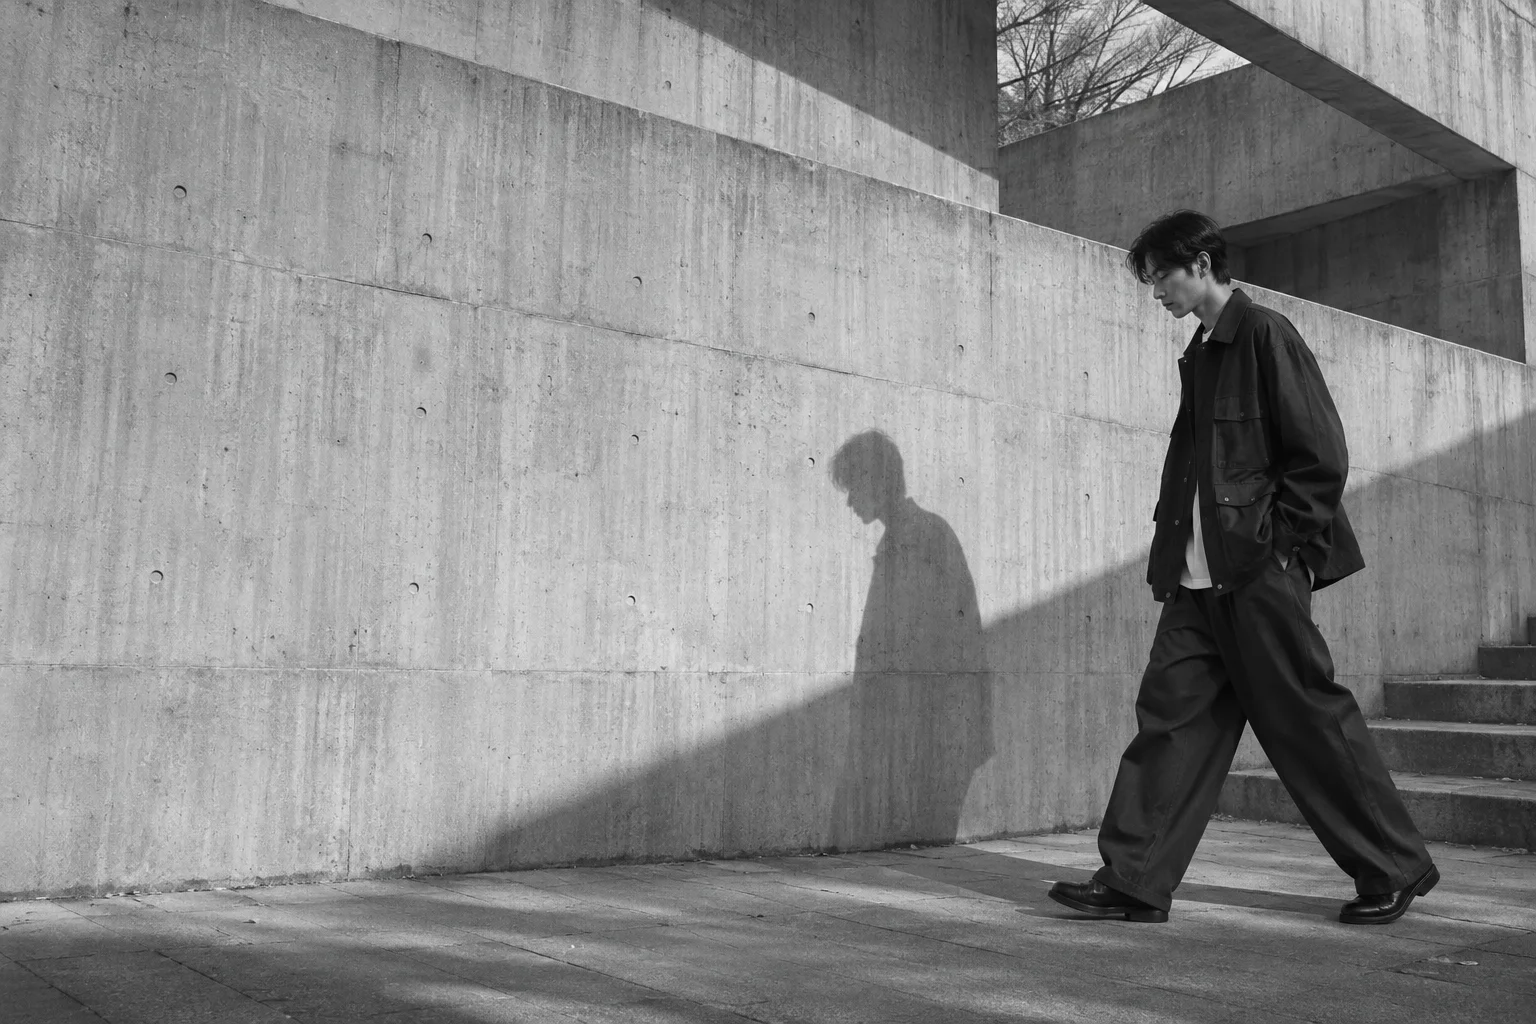
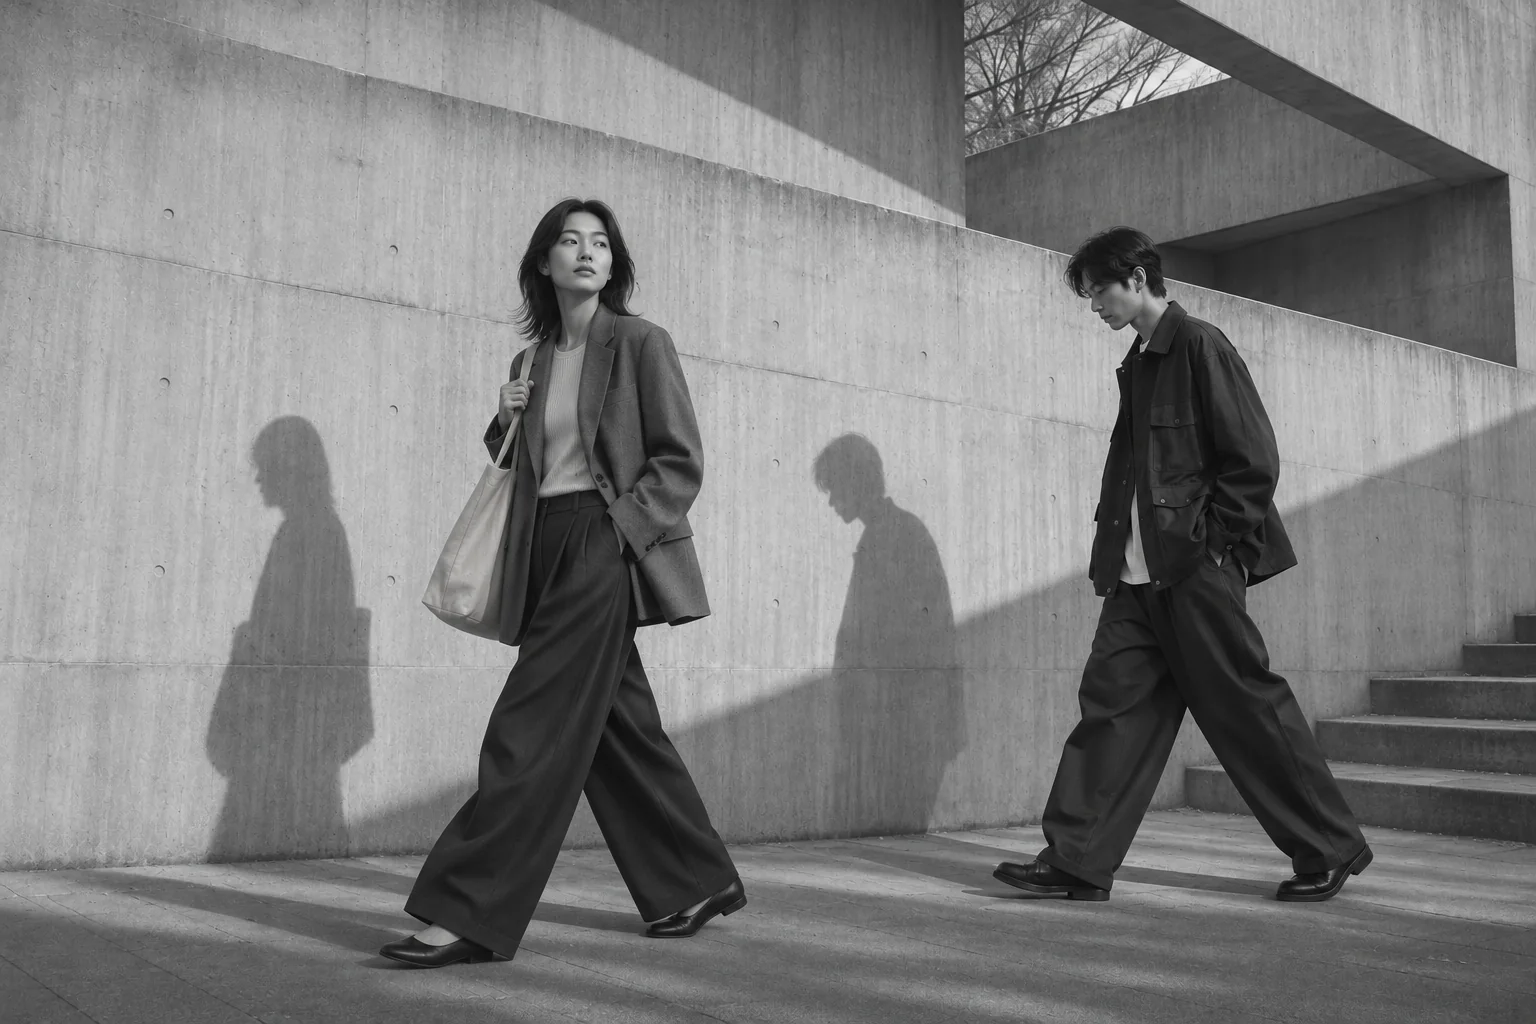
カート追加の数量選択とトップのメインビジュアルを改善

diff --git a/web/src/styles.css b/web/src/styles.css
@@ -27,7 +27,7 @@ input::placeholder { color: #666; }
 .sr-only { position: absolute; width: 1px; height: 1px; padding: 0; margin: -1px; overflow: hidden; clip-path: inset(50%); white-space: nowrap; }
 .header { border-bottom: 1px solid var(--line); background: white; }
 .header--sticky { position: sticky; top: 0; z-index: 10; }
-.header-inner, main, footer > div { width: min(100%, 1640px); margin-inline: auto; padding-inline: var(--gutter); }
+.header-inner, main, footer > div, .hero-copy, .catalog { width: min(100%, 1640px); margin-inline: auto; padding-inline: var(--gutter); }
 .header-inner { min-height: 77px; display: flex; align-items: center; gap: clamp(24px, 5vw, 80px); }
 .wordmark {
   color: var(--ink); font-family: "Helvetica Neue", Arial, sans-serif; font-weight: 900;
@@ -53,23 +53,33 @@ input::placeholder { color: #666; }
   font-size: 10px; font-weight: 600; font-variant-numeric: tabular-nums; line-height: 1;
 }
 main { min-height: 74vh; }
+.store-home { width: 100%; padding-inline: 0; }
 .shop-hero {
-  display: grid; grid-template-columns: minmax(0, .78fr) minmax(0, 1.22fr); align-items: stretch;
-  margin: clamp(18px, 2.5vw, 38px) 0 clamp(40px, 5vw, 78px);
+  position: relative; isolation: isolate;
+  display: grid; align-items: center; min-height: clamp(460px, 48vw, 840px);
+  margin-bottom: clamp(38px, 5vw, 78px); background: #373735; color: white;
 }
-.hero-copy { align-self: center; padding: 18px clamp(24px, 4vw, 72px) 18px 0; }
-.campaign-label { margin: 0 0 clamp(16px, 2.2vw, 32px); font-size: 12px; font-weight: 600; letter-spacing: .075em; }
+.shop-hero::before {
+  content: ''; position: absolute; inset: 0; z-index: -1;
+  background: linear-gradient(90deg, rgb(15 15 15 / .84), rgb(15 15 15 / .62) 22%, rgb(15 15 15 / .13) 46%, transparent 70%);
+}
+.hero-copy { padding-block: 58px; }
+.campaign-label { margin: 0 0 clamp(16px, 2.1vw, 30px); font-size: 12px; font-weight: 650; letter-spacing: .11em; }
 .hero-copy h1 {
-  margin: 0; font: 500 clamp(64px, 7.5vw, 124px)/.87 "Helvetica Neue", Arial, sans-serif;
-  letter-spacing: -.085em;
+  margin: 0; font: 500 clamp(68px, 7.25vw, 124px)/.89 "Helvetica Neue", Arial, sans-serif;
+  letter-spacing: -.08em;
 }
-.campaign-description { margin: clamp(18px, 2.1vw, 32px) 0 0; font-size: clamp(12px, .95vw, 15px); line-height: 1.8; }
+.campaign-description { margin: clamp(16px, 2vw, 26px) 0 0; font-size: 14px; line-height: 1.8; }
 .collection-jump {
-  gap: 28px; min-height: 38px; margin-top: clamp(12px, 1.9vw, 30px); padding: 5px 0;
-  border: 0; border-bottom: 1px solid currentColor; color: var(--ink); background: transparent; font-size: 13px;
+  justify-content: space-between; gap: 20px; min-height: 44px; margin-top: clamp(16px, 2vw, 27px); padding: 8px 14px;
+  border-color: white; border-radius: 5px; color: var(--ink); background: white; font-size: 13px;
 }
-.collection-jump:hover:not(:disabled) { background: transparent; color: var(--subtle); }
-.campaign-photo { display: block; width: 100%; height: 100%; min-height: 0; aspect-ratio: 1.65; object-fit: cover; object-position: 70% center; }
+.collection-jump:hover:not(:disabled) { background: #eaeae7; border-color: #eaeae7; }
+.collection-jump:focus-visible { outline-color: white; }
+.campaign-photo {
+  position: absolute; inset: 0; z-index: -2;
+  display: block; width: 100%; height: 100%; object-fit: cover; object-position: center 48%;
+}
 .catalog { margin-bottom: clamp(50px, 8vw, 110px); }
 .catalog-toolbar {
   display: flex; justify-content: space-between; align-items: center; flex-wrap: wrap;
@@ -106,6 +116,19 @@ main { min-height: 74vh; }
   width: 100%; min-height: 52px; padding: 11px 17px; border-radius: 7px;
   text-align: center; letter-spacing: .025em;
 }
+.detail-quantity-label { display: flex; justify-content: space-between; gap: 8px; margin-bottom: 7px; font-size: 13px; font-weight: 600; }
+.detail-quantity-label > span + span { color: var(--subtle); font-weight: 400; }
+.detail-purchase-row { display: flex; flex-wrap: wrap; gap: 8px; }
+.detail-purchase-row .detail-add { display: flex; flex: 1 0 146px; padding-inline: 12px; }
+.detail-quantity {
+  display: grid; grid-template-columns: 44px 32px 44px; align-items: stretch;
+  min-height: 52px; border: 1px solid var(--line); border-radius: 7px; background: white;
+}
+.detail-quantity button { padding: 0; border: 0; border-radius: 6px; color: var(--ink); background: transparent; }
+.detail-quantity button:hover:not(:disabled) { background: #f2f2ef; }
+.detail-quantity button:disabled { opacity: .33; }
+.detail-quantity output { display: grid; place-items: center; font-size: 14px; font-variant-numeric: tabular-nums; }
+.detail-quantity-note { margin: 8px 0 0; color: var(--subtle); font-size: 13px; }
 .detail-cart-feedback.is-added {
   display: flex; align-items: center; justify-content: space-between; flex-wrap: wrap; gap: 8px 12px;
   margin-top: 10px; padding: 8px 9px 8px 12px; border: 1px solid #e3e7df; border-radius: 7px;
@@ -155,22 +178,21 @@ footer span { font-size: 12px; color: var(--subtle); }
   .account-nav a > span:not(.header-cart-icon), .account-nav button > span { display: none; }
   .header .account-nav { gap: 2px; }
   .account-nav a, .account-nav button { justify-content: center; min-width: 36px; }
-  .shop-hero { grid-template-columns: minmax(0, .85fr) minmax(0, 1.15fr); }
-  .hero-copy h1 { font-size: clamp(58px, 8vw, 78px); }
   .catalog-toolbar { align-items: flex-start; }
   .detail { gap: 22px; }
+}
+@media (max-width: 700px) {
+  .shop-hero { align-items: end; min-height: clamp(420px, 116vw, 540px); }
+  .shop-hero::before { background: linear-gradient(0deg, rgb(15 15 15 / .9), rgb(15 15 15 / .69) 26%, rgb(15 15 15 / .13) 58%, transparent 78%); }
+  .campaign-photo { object-position: 57% 45%; }
+  .hero-copy { padding-block: 36px 28px; }
+  .hero-copy h1 { font-size: clamp(52px, 11vw, 74px); }
+  .campaign-label { margin-bottom: 12px; font-size: 11px; }
+  .campaign-description { margin-top: 12px; font-size: 13px; }
 }
 @media (max-width: 600px) {
   .header-inner { gap: 12px; flex-wrap: wrap; padding-block: 8px; }
   .header .store-nav { gap: 10px; }
-  .shop-hero { display: flex; flex-direction: column; margin-top: 14px; margin-bottom: 36px; }
-  .campaign-photo { order: -1; height: auto; aspect-ratio: 1.65; }
-  .hero-copy { width: 100%; padding: 19px 0 0; }
-  .hero-copy h1 { font-size: clamp(43px, 10.5vw, 62px); line-height: 1; }
-  .hero-copy h1 br { display: none; }
-  .campaign-label { margin-bottom: 9px; font-size: 10px; }
-  .campaign-description { margin-top: 10px; }
-  .collection-jump { margin-top: 6px; min-height: 36px; }
   .catalog-toolbar { display: grid; gap: 13px; padding-bottom: 12px; margin-bottom: 15px; }
   .filters { display: grid; grid-template-columns: auto auto; justify-content: start; gap: 5px 16px; }
   .catalog-search { grid-column: 1 / -1; }

diff --git a/web/src/features/products/products.tsx b/web/src/features/products/products.tsx
@@ -1,7 +1,7 @@
 import { categories, type Product } from '@thread/shared';
 import { useEffect, useRef, useState, type RefObject } from 'react';
 import { Link, useParams } from 'react-router-dom';
-import { ArrowDownRight, ArrowLeft, ArrowRight, Check, Plus, Search, ShoppingBag } from 'lucide-react';
+import { ArrowDownRight, ArrowLeft, ArrowRight, Check, Minus, Plus, Search, ShoppingBag } from 'lucide-react';
 import campaignImage from '../../assets/campaign.webp';
 import { ProductVisual } from './product-visual';
 import { api, yen } from '../../api';
@@ -66,7 +66,7 @@ export function Products() {
         }}>商品を見る <ArrowDownRight size={17} aria-hidden="true" /></button>
       </div>
       <img className="campaign-photo" src={campaignImage} width={1536} height={1024} fetchPriority="high"
-        alt="コンクリートの壁を背景に、ジャケットとワイドパンツを着て歩くモデル" />
+        alt="コンクリートの建物を背景に、ジャケットとワイドパンツを着こなす女性と男性のモデル" />
     </section>
     <section className="catalog" aria-labelledby="collection">
       <div className="catalog-toolbar">
@@ -130,11 +130,15 @@ function AddToCart({ product, token, cartIcon, productImage }: {
   cartIcon: RefObject<HTMLSpanElement | null>;
   productImage: RefObject<HTMLImageElement | null>;
 }) {
-  const { refresh } = useCart();
+  const { items, refresh } = useCart();
+  const [quantity, setQuantity] = useState(1);
   const [added, setAdded] = useState(false);
   const [error, setError] = useState('');
   const [busy, setBusy] = useState(false);
   const stopAnimation = useRef<(() => void) | undefined>(undefined);
+  const inCart = items?.find(item => item.productId === product.id)?.quantity ?? 0;
+  const available = Math.max(0, Math.min(product.stock, 99) - inCart);
+  const selected = Math.min(quantity, available);
 
   useEffect(() => () => stopAnimation.current?.(), []);
 
@@ -144,7 +148,7 @@ function AddToCart({ product, token, cartIcon, productImage }: {
     setError('');
     setBusy(true);
     try {
-      await api('/cart/' + product.id, { method: 'PUT', body: '{"quantity":1}' }, token);
+      await api('/cart/' + encodeURIComponent(product.id), { method: 'POST', body: JSON.stringify({ quantity: selected }) }, token);
       refresh();
       setAdded(true);
     } catch (cause) {
@@ -159,11 +163,23 @@ function AddToCart({ product, token, cartIcon, productImage }: {
   }
 
   return <div className="detail-actions">
-    <button type="button" className="detail-add" disabled={!product.stock || busy} onClick={event => void addToCart(event.currentTarget)}>
-      <ShoppingBag size={18} aria-hidden="true" />
-      {busy ? '追加中…' : 'カートに追加'}
-      <Plus size={17} aria-hidden="true" />
-    </button>
+    <div className="detail-quantity-label"><span>追加点数</span>{inCart > 0 && <span>カート内 {inCart} 点</span>}</div>
+    <div className="detail-purchase-row">
+      <div className="detail-quantity" role="group" aria-label="追加点数">
+        <button type="button" aria-label="追加点数を減らす" disabled={busy || selected <= 1} onClick={() => setQuantity(selected - 1)}>
+          <Minus size={15} aria-hidden="true" />
+        </button>
+        <output>{selected}</output>
+        <button type="button" aria-label="追加点数を増やす" disabled={busy || selected >= available} onClick={() => setQuantity(selected + 1)}>
+          <Plus size={15} aria-hidden="true" />
+        </button>
+      </div>
+      <button type="button" className="detail-add" disabled={busy || selected === 0} onClick={event => void addToCart(event.currentTarget)}>
+        <ShoppingBag size={18} aria-hidden="true" />
+        {busy ? '追加中…' : 'カートに追加'}
+      </button>
+    </div>
+    {product.stock > 0 && available === 0 && <p className="detail-quantity-note">追加できる上限に達しました。</p>}
     <div className={added ? 'detail-cart-feedback is-added' : 'detail-cart-feedback'}>
       <p role="status">{added && <><span className="detail-cart-check"><Check size={14} aria-hidden="true" /></span>カートに追加しました。</>}</p>
       {added && <Link className="detail-cart-link" to="/cart">カートを見る <ArrowRight size={16} aria-hidden="true" /></Link>}

diff --git a/api/src/cart/cart.ts b/api/src/cart/cart.ts
@@ -1,24 +1,32 @@
-import { Body, Controller, Delete, Get, Injectable, Module, NotFoundException, Param, Put, UseGuards } from '@nestjs/common';
+import { Body, ConflictException, Controller, Delete, Get, Injectable, Module, NotFoundException, Param, Post, Put, UseGuards } from '@nestjs/common';
 import { ApiBearerAuth, ApiProperty, ApiTags } from '@nestjs/swagger';
 import { IsInt, Max, Min } from 'class-validator';
 import { Db } from '../db';
+import { Prisma } from '../generated/prisma/client';
 import { AuthGuard, AuthModule, CurrentUser, RequireRole } from '../auth/auth';
 
+const MAX_CART_QUANTITY = 99;
+
 class QuantityDto {
-  @ApiProperty() @IsInt() @Min(1) @Max(99) quantity!: number;
+  @ApiProperty() @IsInt() @Min(1) @Max(MAX_CART_QUANTITY) quantity!: number;
 }
 
 @Injectable()
 class CartRepository {
   constructor(private readonly db: Db) {}
   list(userId: string) { return this.db.cartItem.findMany({ where: { userId }, include: { product: true }, orderBy: { productId: 'asc' } }); }
-  findProduct(id: string) { return this.db.product.findFirst({ where: { id, isPublished: true } }); }
-  put(userId: string, productId: string, quantity: number) {
-    return this.db.cartItem.upsert({
+  findProduct(id: string, source: Pick<Prisma.TransactionClient, 'product'> = this.db) {
+    return source.product.findFirst({ where: { id, isPublished: true } });
+  }
+  put(userId: string, productId: string, quantity: number, source: Pick<Prisma.TransactionClient, 'cartItem'> = this.db) {
+    return source.cartItem.upsert({
       where: { userId_productId: { userId, productId } }, update: { quantity }, create: { userId, productId, quantity },
     });
   }
   remove(userId: string, productId: string) { return this.db.cartItem.deleteMany({ where: { userId, productId } }); }
+  transact<T>(process: (db: Prisma.TransactionClient) => Promise<T>) {
+    return this.db.$transaction(process, { isolationLevel: Prisma.TransactionIsolationLevel.Serializable });
+  }
 }
 
 @Injectable()
@@ -28,6 +36,25 @@ class CartService {
   async put(userId: string, id: string, qty: number) {
     if (!await this.repo.findProduct(id)) throw new NotFoundException('商品が見つかりません。');
     return this.repo.put(userId, id, qty);
+  }
+  async add(userId: string, productId: string, quantity: number) {
+    for (let attempt = 0; attempt < 3; attempt += 1) {
+      try {
+        return await this.repo.transact(async db => {
+          const product = await this.repo.findProduct(productId, db);
+          if (!product) throw new NotFoundException('商品が見つかりません。');
+          const current = await db.cartItem.findUnique({ where: { userId_productId: { userId, productId } } });
+          const next = (current?.quantity ?? 0) + quantity;
+          if (next > Math.min(product.stock, MAX_CART_QUANTITY)) {
+            throw new ConflictException('在庫またはカートの上限を超える数量は追加できません。');
+          }
+          return this.repo.put(userId, productId, next, db);
+        });
+      } catch (cause) {
+        if (!(cause instanceof Prisma.PrismaClientKnownRequestError) || !['P2034', 'P2002'].includes(cause.code)) throw cause;
+      }
+    }
+    throw new ConflictException('カートが更新されました。もう一度追加してください。');
   }
   async remove(userId: string, id: string) { await this.repo.remove(userId, id); return { removed: true }; }
 }
@@ -40,6 +67,9 @@ class CartService {
 class CartController {
   constructor(private readonly cart: CartService) {}
   @Get() list(@CurrentUser() user: { id: string }) { return this.cart.list(user.id); }
+  @Post(':id') add(@CurrentUser() user: { id: string }, @Param('id') id: string, @Body() dto: QuantityDto) {
+    return this.cart.add(user.id, id, dto.quantity);
+  }
   @Put(':id') put(@CurrentUser() user: { id: string }, @Param('id') id: string, @Body() dto: QuantityDto) {
     return this.cart.put(user.id, id, dto.quantity);
   }

diff --git a/web/src/main.tsx b/web/src/main.tsx
@@ -16,6 +16,7 @@ function Shop() {
   const { items } = useCart();
   const cartQuantity = items?.reduce((sum, item) => sum + item.quantity, 0) ?? 0;
   const cartIcon = useRef<HTMLSpanElement>(null);
+  const homePage = useMatch('/');
   const detailPage = useMatch('/products/:id');
   return <>
     <header className={detailPage ? 'header header--sticky' : 'header'}><div className="header-inner">
@@ -36,7 +37,7 @@ function Shop() {
         </NavLink>
       </nav>
     </div></header>
-    <main><Routes>
+    <main className={homePage ? 'store-home' : undefined}><Routes>
       <Route index element={<Products />} /><Route path="/products/:id" element={<ProductDetail cartIcon={cartIcon} />} />
       <Route path="/cart" element={<Cart />} /><Route path="/orders" element={<Orders />} />
       <Route path="/checkout" element={<CheckoutFlow />}>
